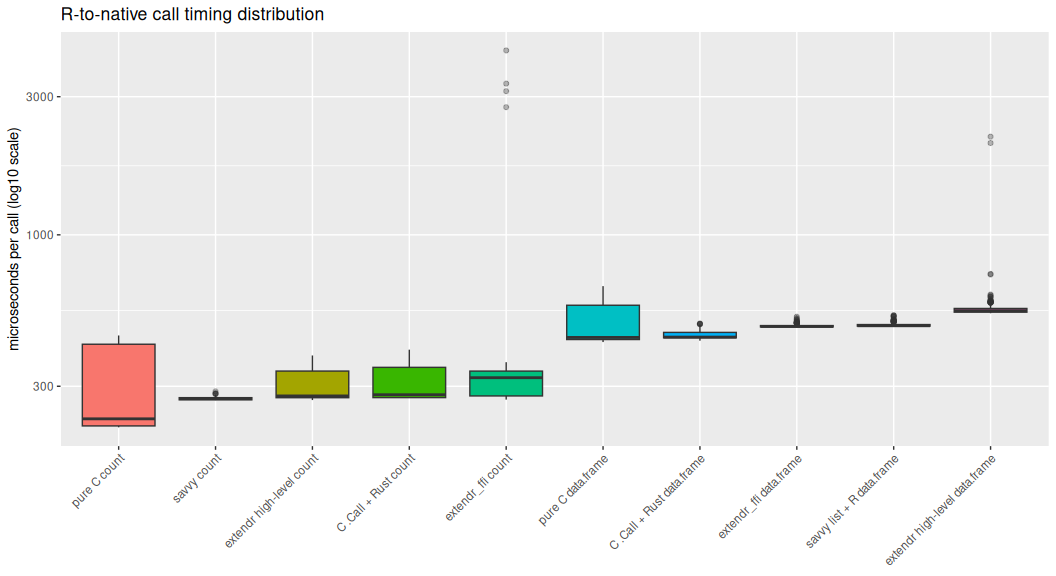
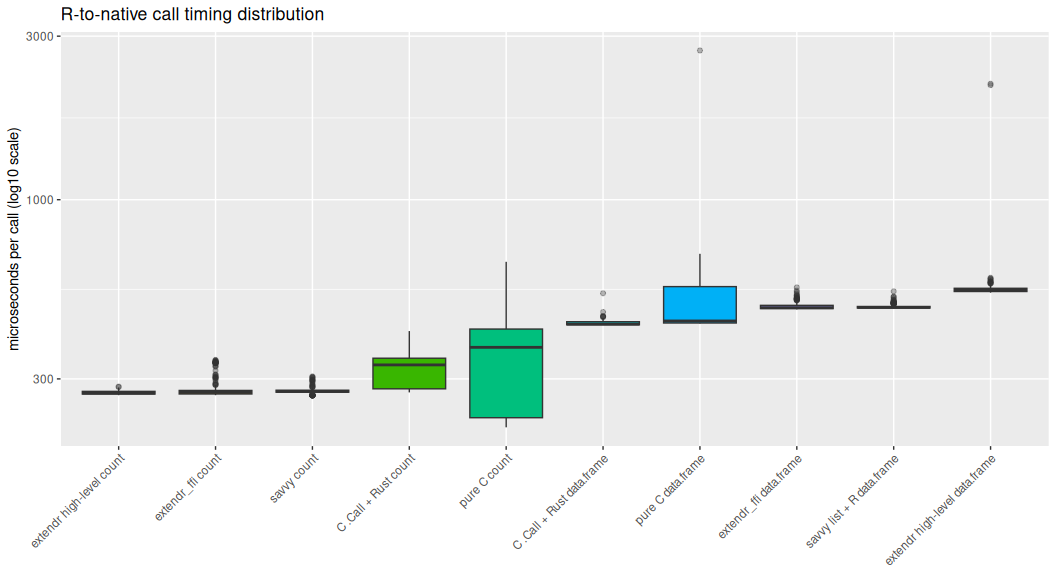
Pin benchmark process to one CPU

diff --git a/README.md b/README.md
@@ -52,7 +52,8 @@ make install   # install all packages
 make test      # run tinytest for all packages
 make bench     # run bench::mark benchmark script
 make report    # render README.md and benchmarks/benchmark.md
-# Optional on Linux: RCALLSRUST_BENCH_CPU=0 make report pins the benchmark with taskset.
+# Linux benchmarks pin to one CPU by default; use RCALLSRUST_BENCH_CPU=none to disable.
+# Use RCALLSRUST_BENCH_CPU=<cpu> to choose a specific CPU.
 make check     # run R CMD check for all packages
 ```
 
@@ -66,27 +67,28 @@ separate `bench::mark()` run to reduce cross-case cache and allocation
 interference. Timing columns are reported in microseconds;
 `itr_per_second` is bench’s aggregate throughput and is not simply
 `1e6 / median_us`. The distribution plot uses a log10 microsecond scale
-so long-tail outliers do not flatten the main timing bands. On
-heterogeneous or frequency-scaled CPUs, unpinned runs can show
-core-migration tails; on Linux, set `RCALLSRUST_BENCH_CPU=<cpu>` to pin
-the benchmark with `taskset`.
+so long-tail outliers do not flatten the main timing bands. On Linux,
+benchmark runs pin themselves to one CPU by default
+(`RCALLSRUST_BENCH_CPU=auto`) to avoid core-migration tails on
+heterogeneous or frequency-scaled CPUs. Set `RCALLSRUST_BENCH_CPU=<cpu>`
+to choose a CPU, or `RCALLSRUST_BENCH_CPU=none` to disable pinning.
 
 | input_bytes | needle | expected_matches | iterations | cpu_affinity |
-|------------:|-------:|-----------------:|-----------:|-------------:|
-|       1e+06 |     65 |               10 |        500 |            0 |
+|------------:|-------:|-----------------:|-----------:|:-------------|
+|       1e+06 |     65 |               10 |        500 | auto:0       |
 
 | binding                       | input_bytes | iterations | result_size |   min_us |   p25_us | median_us |   p75_us |   p95_us |    max_us | itr_per_second | mem_alloc_bytes | gc_per_second |
 |:------------------------------|------------:|-----------:|------------:|---------:|---------:|----------:|---------:|---------:|----------:|---------------:|----------------:|--------------:|
-| pure C count                  |       1e+06 |        500 |          10 | 216.4610 | 218.8683 |  231.5645 | 419.0668 | 429.5990 |  449.4131 |       3422.080 |               0 |      0.000000 |
-| savvy count                   |       1e+06 |        500 |          10 | 268.6331 | 269.3455 |  271.8525 | 274.0244 | 277.5776 |  288.2330 |       3673.828 |               0 |      0.000000 |
-| extendr high-level count      |       1e+06 |        500 |          10 | 268.8779 | 273.9317 |  277.8005 | 338.5370 | 342.2083 |  383.2100 |       3358.517 |               0 |      0.000000 |
-| C .Call + Rust count          |       1e+06 |        500 |          10 | [phone redacted] | [phone redacted] |  [phone redacted] | [phone redacted] | [phone redacted] |  [phone redacted] |       [phone redacted] |               0 |      [phone redacted] |
-| extendr_ffi count             |       1e+06 |        500 |          10 | 269.7689 | 277.7879 |  321.1505 | 338.4415 | 341.2959 | 4332.8489 |       3007.240 |               0 |      0.000000 |
-| pure C data.frame             |       1e+06 |        500 |          10 | 426.2611 | 435.0110 |  442.3365 | 571.3510 | 643.1047 |  665.1041 |       2011.792 |               0 |      0.000000 |
-| C .Call + Rust data.frame     |       1e+06 |        500 |          10 | [phone redacted] | [phone redacted] |  [phone redacted] | [phone redacted] | [phone redacted] |  [phone redacted] |       [phone redacted] |               0 |      [phone redacted] |
-| extendr_ffi data.frame        |       1e+06 |        500 |          10 | 478.5500 | 480.9421 |  482.6536 | 486.0712 | 494.2625 |  521.5349 |       2064.436 |               0 |      0.000000 |
-| savvy list + R data.frame     |       1e+06 |        500 |          10 | 481.7031 | 483.9698 |  485.3721 | 490.0148 | 499.9955 |  527.2730 |       2049.611 |               0 |      0.000000 |
-| extendr high-level data.frame |       1e+06 |        500 |          10 | 536.1299 | 540.6938 |  547.1780 | 556.9335 | 584.3325 | 2182.7739 |       1810.507 |               0 |      7.271114 |
+| extendr high-level count      |       1e+06 |        500 |          10 | 268.9541 | 271.0066 |  272.7641 | 275.9346 | 278.9222 |  284.9570 |       3655.779 |               0 |      0.000000 |
+| extendr_ffi count             |       1e+06 |        500 |          10 | 268.9301 | 271.1431 |  274.0180 | 277.6398 | 317.5747 |  340.8821 |       3596.239 |               0 |      0.000000 |
+| savvy count                   |       1e+06 |        500 |          10 | 268.6590 | 274.4132 |  275.8990 | 278.0447 | 282.1359 |  304.9689 |       3618.581 |               0 |      0.000000 |
+| C .Call + Rust count          |       1e+06 |        500 |          10 | [phone redacted] | [phone redacted] |  [phone redacted] | [phone redacted] | [phone redacted] |  [phone redacted] |       [phone redacted] |               0 |      [phone redacted] |
+| pure C count                  |       1e+06 |        500 |          10 | 216.7390 | 231.1628 |  370.9205 | 419.3695 | 626.0215 |  658.9760 |       2739.439 |               0 |      0.000000 |
+| C .Call + Rust data.frame     |       1e+06 |        500 |          10 | [phone redacted] | [phone redacted] |  [phone redacted] | [phone redacted] | [phone redacted] |  [phone redacted] |       [phone redacted] |               0 |      [phone redacted] |
+| pure C data.frame             |       1e+06 |        500 |          10 | 435.3640 | 436.8063 |  442.6760 | 557.7519 | 646.9506 | 2725.5799 |       2008.175 |               0 |      4.024398 |
+| extendr_ffi data.frame        |       1e+06 |        500 |          10 | 478.5041 | 481.1858 |  484.1066 | 491.7886 | 508.6450 |  554.8050 |       2049.805 |               0 |      0.000000 |
+| savvy list + R data.frame     |       1e+06 |        500 |          10 | 481.6600 | 483.0362 |  484.9345 | 488.0437 | 498.5399 |  540.3770 |       2054.311 |               0 |      0.000000 |
+| extendr high-level data.frame |       1e+06 |        500 |          10 | 535.4981 | 539.7196 |  543.9636 | 551.4898 | 564.8722 | 2178.8831 |       1829.003 |               0 |      7.345395 |
 
 ![](README_files/figure-gfm/benchmark-plot-1.png)<!-- -->
 

diff --git a/benchmarks/benchmark.md b/benchmarks/benchmark.md
@@ -26,9 +26,10 @@ and allocation interference. Timing columns are reported in
 microseconds; `itr_per_second` is bench’s aggregate throughput and is
 not simply `1e6 / median_us`. The distribution plot uses a log10
 microsecond scale so long-tail outliers do not flatten the main timing
-bands. On heterogeneous or frequency-scaled CPUs, unpinned runs can show
-core-migration tails; on Linux, set `RCALLSRUST_BENCH_CPU=<cpu>` to pin
-the benchmark with `taskset`.
+bands. On Linux, benchmark runs pin themselves to one CPU by default
+(`RCALLSRUST_BENCH_CPU=auto`) to avoid core-migration tails on
+heterogeneous or frequency-scaled CPUs. Set `RCALLSRUST_BENCH_CPU=<cpu>`
+to choose a CPU, or `RCALLSRUST_BENCH_CPU=none` to disable pinning.
 
 ## Machine
 
@@ -45,21 +46,21 @@ the benchmark with `taskset`.
 ## Results
 
 | input_bytes | needle | expected_matches | iterations | cpu_affinity |
-|------------:|-------:|-----------------:|-----------:|-------------:|
-|       1e+06 |     65 |               10 |        500 |            0 |
+|------------:|-------:|-----------------:|-----------:|:-------------|
+|       1e+06 |     65 |               10 |        500 | auto:0       |
 
 | binding                       | input_bytes | iterations | result_size |   min_us |   p25_us | median_us |   p75_us |   p95_us |    max_us | itr_per_second | mem_alloc_bytes | gc_per_second |
 |:------------------------------|------------:|-----------:|------------:|---------:|---------:|----------:|---------:|---------:|----------:|---------------:|----------------:|--------------:|
-| pure C count                  |       1e+06 |        500 |          10 | 216.4610 | 218.8683 |  231.5645 | 419.0668 | 429.5990 |  449.4131 |       3422.080 |               0 |      0.000000 |
-| savvy count                   |       1e+06 |        500 |          10 | 268.6331 | 269.3455 |  271.8525 | 274.0244 | 277.5776 |  288.2330 |       3673.828 |               0 |      0.000000 |
-| extendr high-level count      |       1e+06 |        500 |          10 | 268.8779 | 273.9317 |  277.8005 | 338.5370 | 342.2083 |  383.2100 |       3358.517 |               0 |      0.000000 |
-| C .Call + Rust count          |       1e+06 |        500 |          10 | [phone redacted] | [phone redacted] |  [phone redacted] | [phone redacted] | [phone redacted] |  [phone redacted] |       [phone redacted] |               0 |      [phone redacted] |
-| extendr_ffi count             |       1e+06 |        500 |          10 | 269.7689 | 277.7879 |  321.1505 | 338.4415 | 341.2959 | 4332.8489 |       3007.240 |               0 |      0.000000 |
-| pure C data.frame             |       1e+06 |        500 |          10 | 426.2611 | 435.0110 |  442.3365 | 571.3510 | 643.1047 |  665.1041 |       2011.792 |               0 |      0.000000 |
-| C .Call + Rust data.frame     |       1e+06 |        500 |          10 | [phone redacted] | [phone redacted] |  [phone redacted] | [phone redacted] | [phone redacted] |  [phone redacted] |       [phone redacted] |               0 |      [phone redacted] |
-| extendr_ffi data.frame        |       1e+06 |        500 |          10 | 478.5500 | 480.9421 |  482.6536 | 486.0712 | 494.2625 |  521.5349 |       2064.436 |               0 |      0.000000 |
-| savvy list + R data.frame     |       1e+06 |        500 |          10 | 481.7031 | 483.9698 |  485.3721 | 490.0148 | 499.9955 |  527.2730 |       2049.611 |               0 |      0.000000 |
-| extendr high-level data.frame |       1e+06 |        500 |          10 | 536.1299 | 540.6938 |  547.1780 | 556.9335 | 584.3325 | 2182.7739 |       1810.507 |               0 |      7.271114 |
+| extendr high-level count      |       1e+06 |        500 |          10 | 268.9541 | 271.0066 |  272.7641 | 275.9346 | 278.9222 |  284.9570 |       3655.779 |               0 |      0.000000 |
+| extendr_ffi count             |       1e+06 |        500 |          10 | 268.9301 | 271.1431 |  274.0180 | 277.6398 | 317.5747 |  340.8821 |       3596.239 |               0 |      0.000000 |
+| savvy count                   |       1e+06 |        500 |          10 | 268.6590 | 274.4132 |  275.8990 | 278.0447 | 282.1359 |  304.9689 |       3618.581 |               0 |      0.000000 |
+| C .Call + Rust count          |       1e+06 |        500 |          10 | [phone redacted] | [phone redacted] |  [phone redacted] | [phone redacted] | [phone redacted] |  [phone redacted] |       [phone redacted] |               0 |      [phone redacted] |
+| pure C count                  |       1e+06 |        500 |          10 | 216.7390 | 231.1628 |  370.9205 | 419.3695 | 626.0215 |  658.9760 |       2739.439 |               0 |      0.000000 |
+| C .Call + Rust data.frame     |       1e+06 |        500 |          10 | [phone redacted] | [phone redacted] |  [phone redacted] | [phone redacted] | [phone redacted] |  [phone redacted] |       [phone redacted] |               0 |      [phone redacted] |
+| pure C data.frame             |       1e+06 |        500 |          10 | 435.3640 | 436.8063 |  442.6760 | 557.7519 | 646.9506 | 2725.5799 |       2008.175 |               0 |      4.024398 |
+| extendr_ffi data.frame        |       1e+06 |        500 |          10 | 478.5041 | 481.1858 |  484.1066 | 491.7886 | 508.6450 |  554.8050 |       2049.805 |               0 |      0.000000 |
+| savvy list + R data.frame     |       1e+06 |        500 |          10 | 481.6600 | 483.0362 |  484.9345 | 488.0437 | 498.5399 |  540.3770 |       2054.311 |               0 |      0.000000 |
+| extendr high-level data.frame |       1e+06 |        500 |          10 | 535.4981 | 539.7196 |  543.9636 | 551.4898 | 564.8722 | 2178.8831 |       1829.003 |               0 |      7.345395 |
 
 ## Plot
 